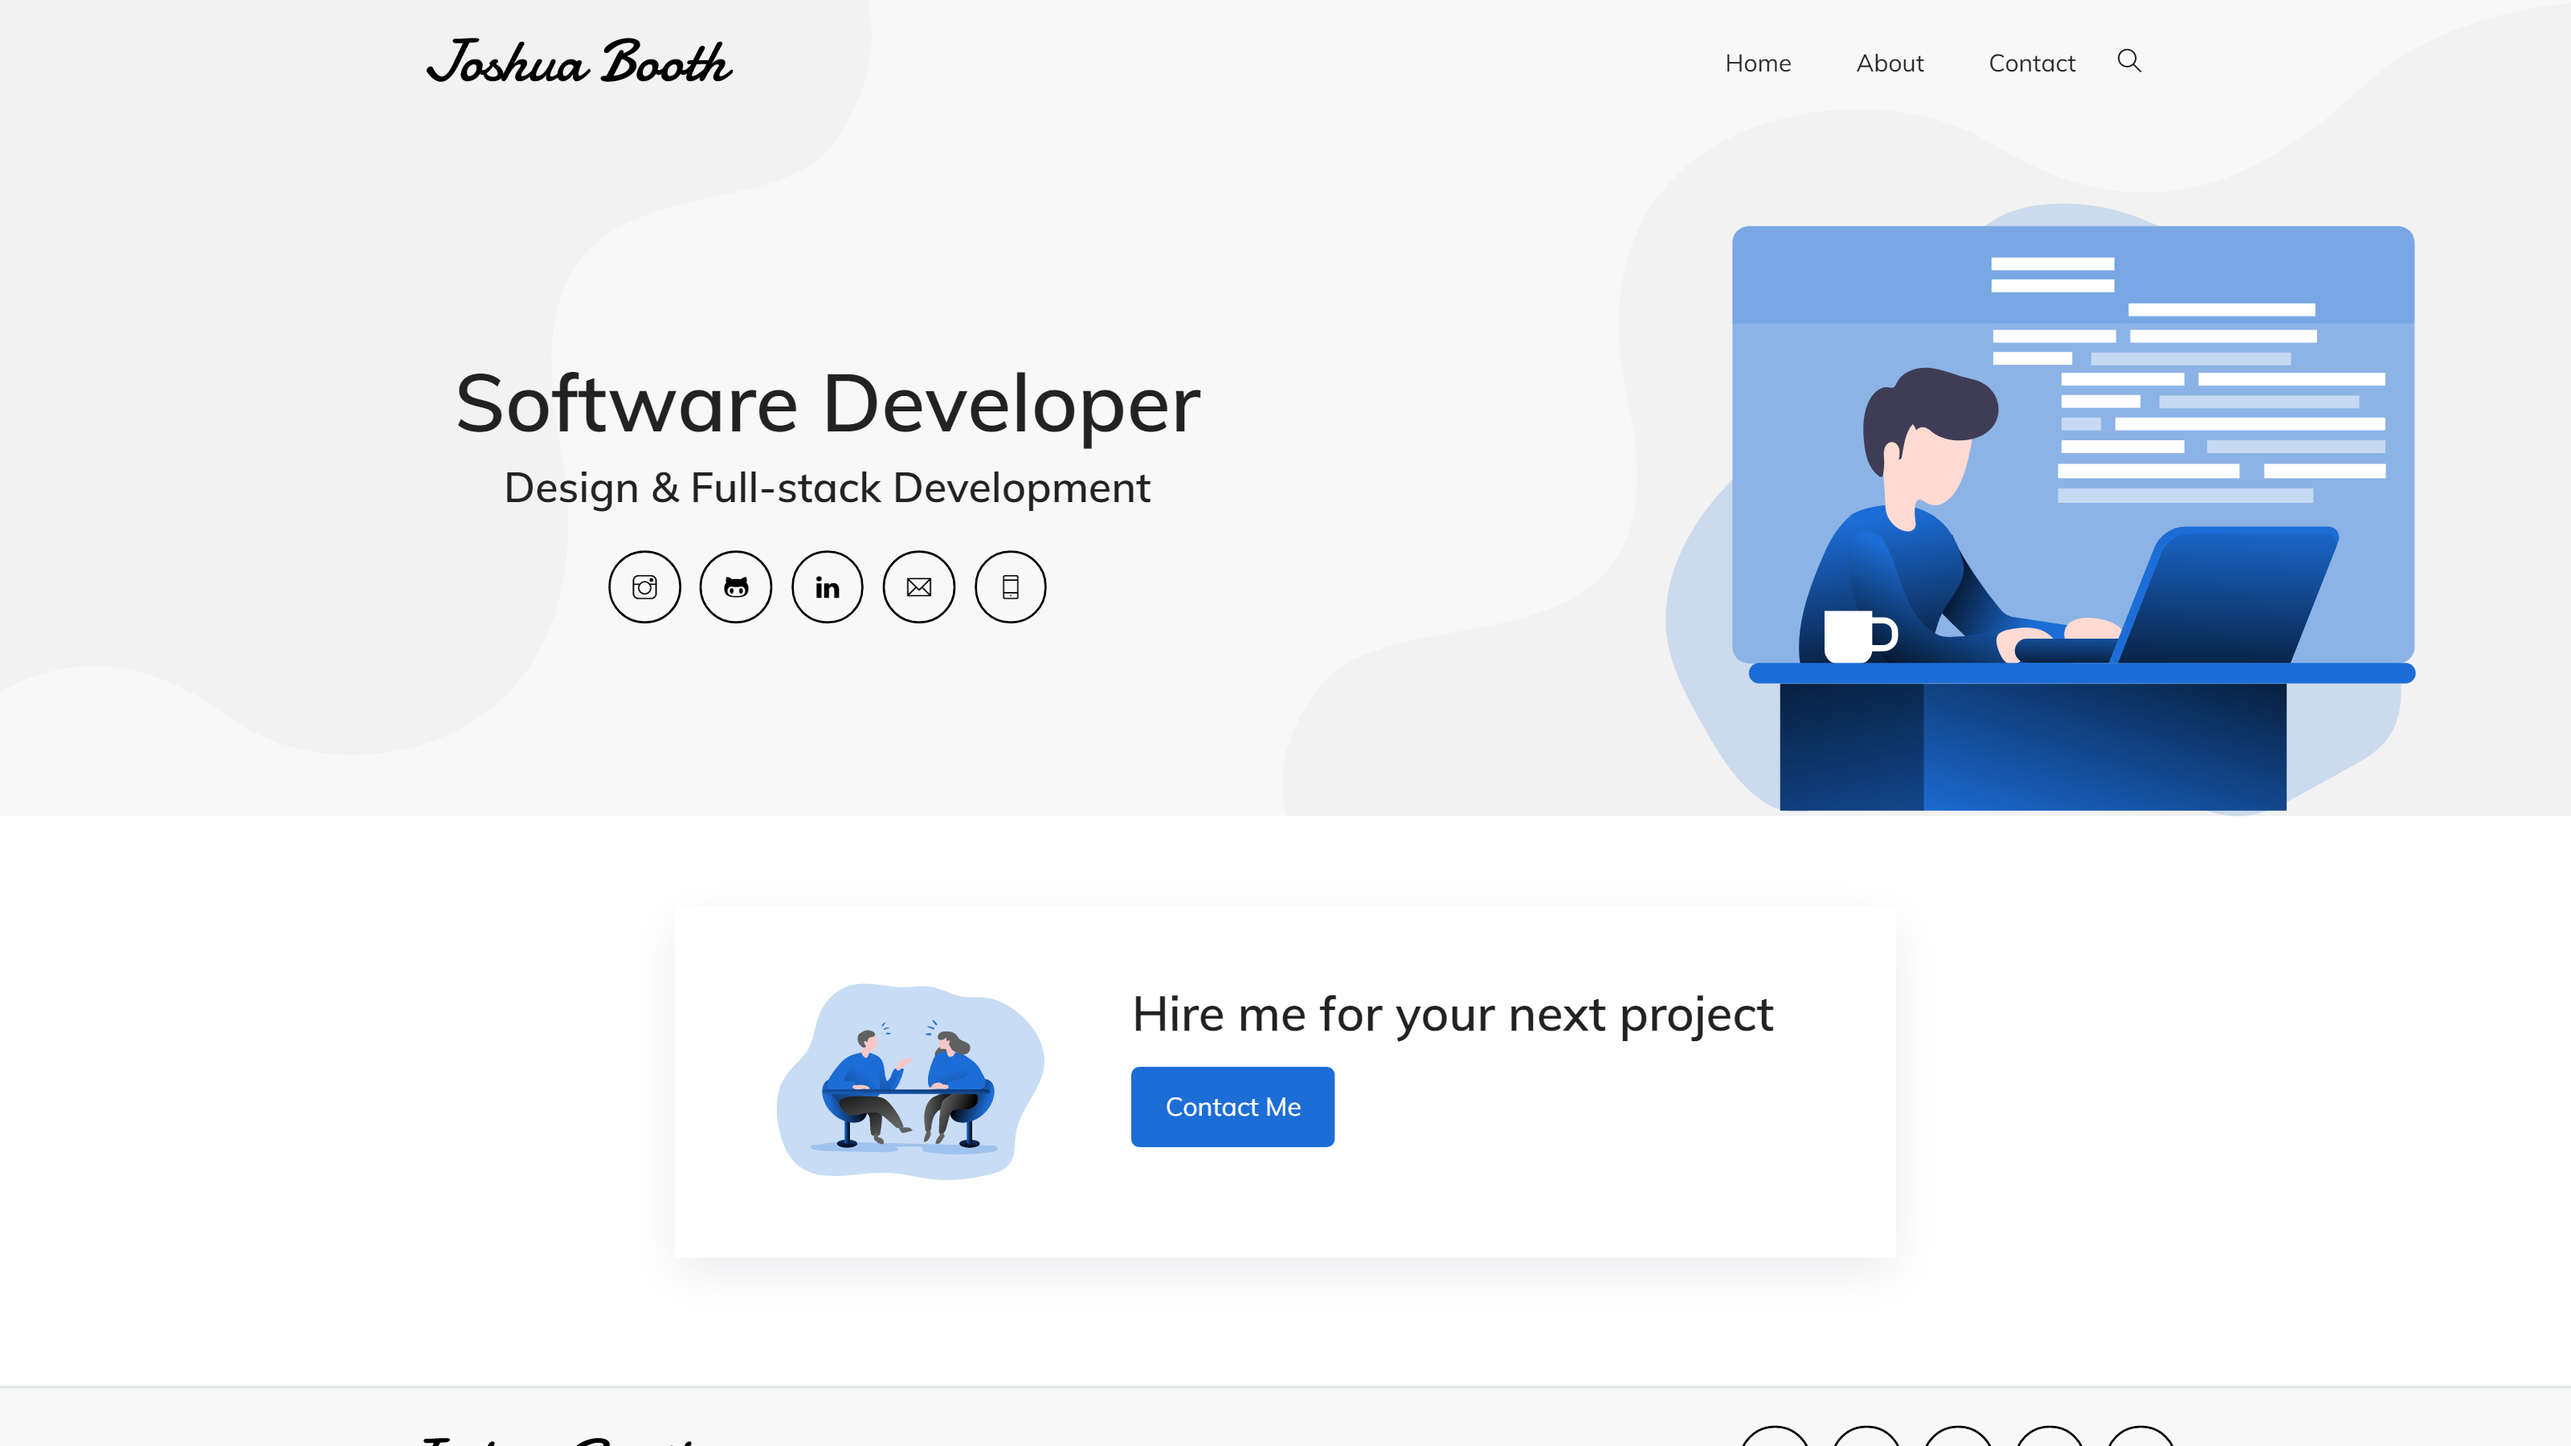
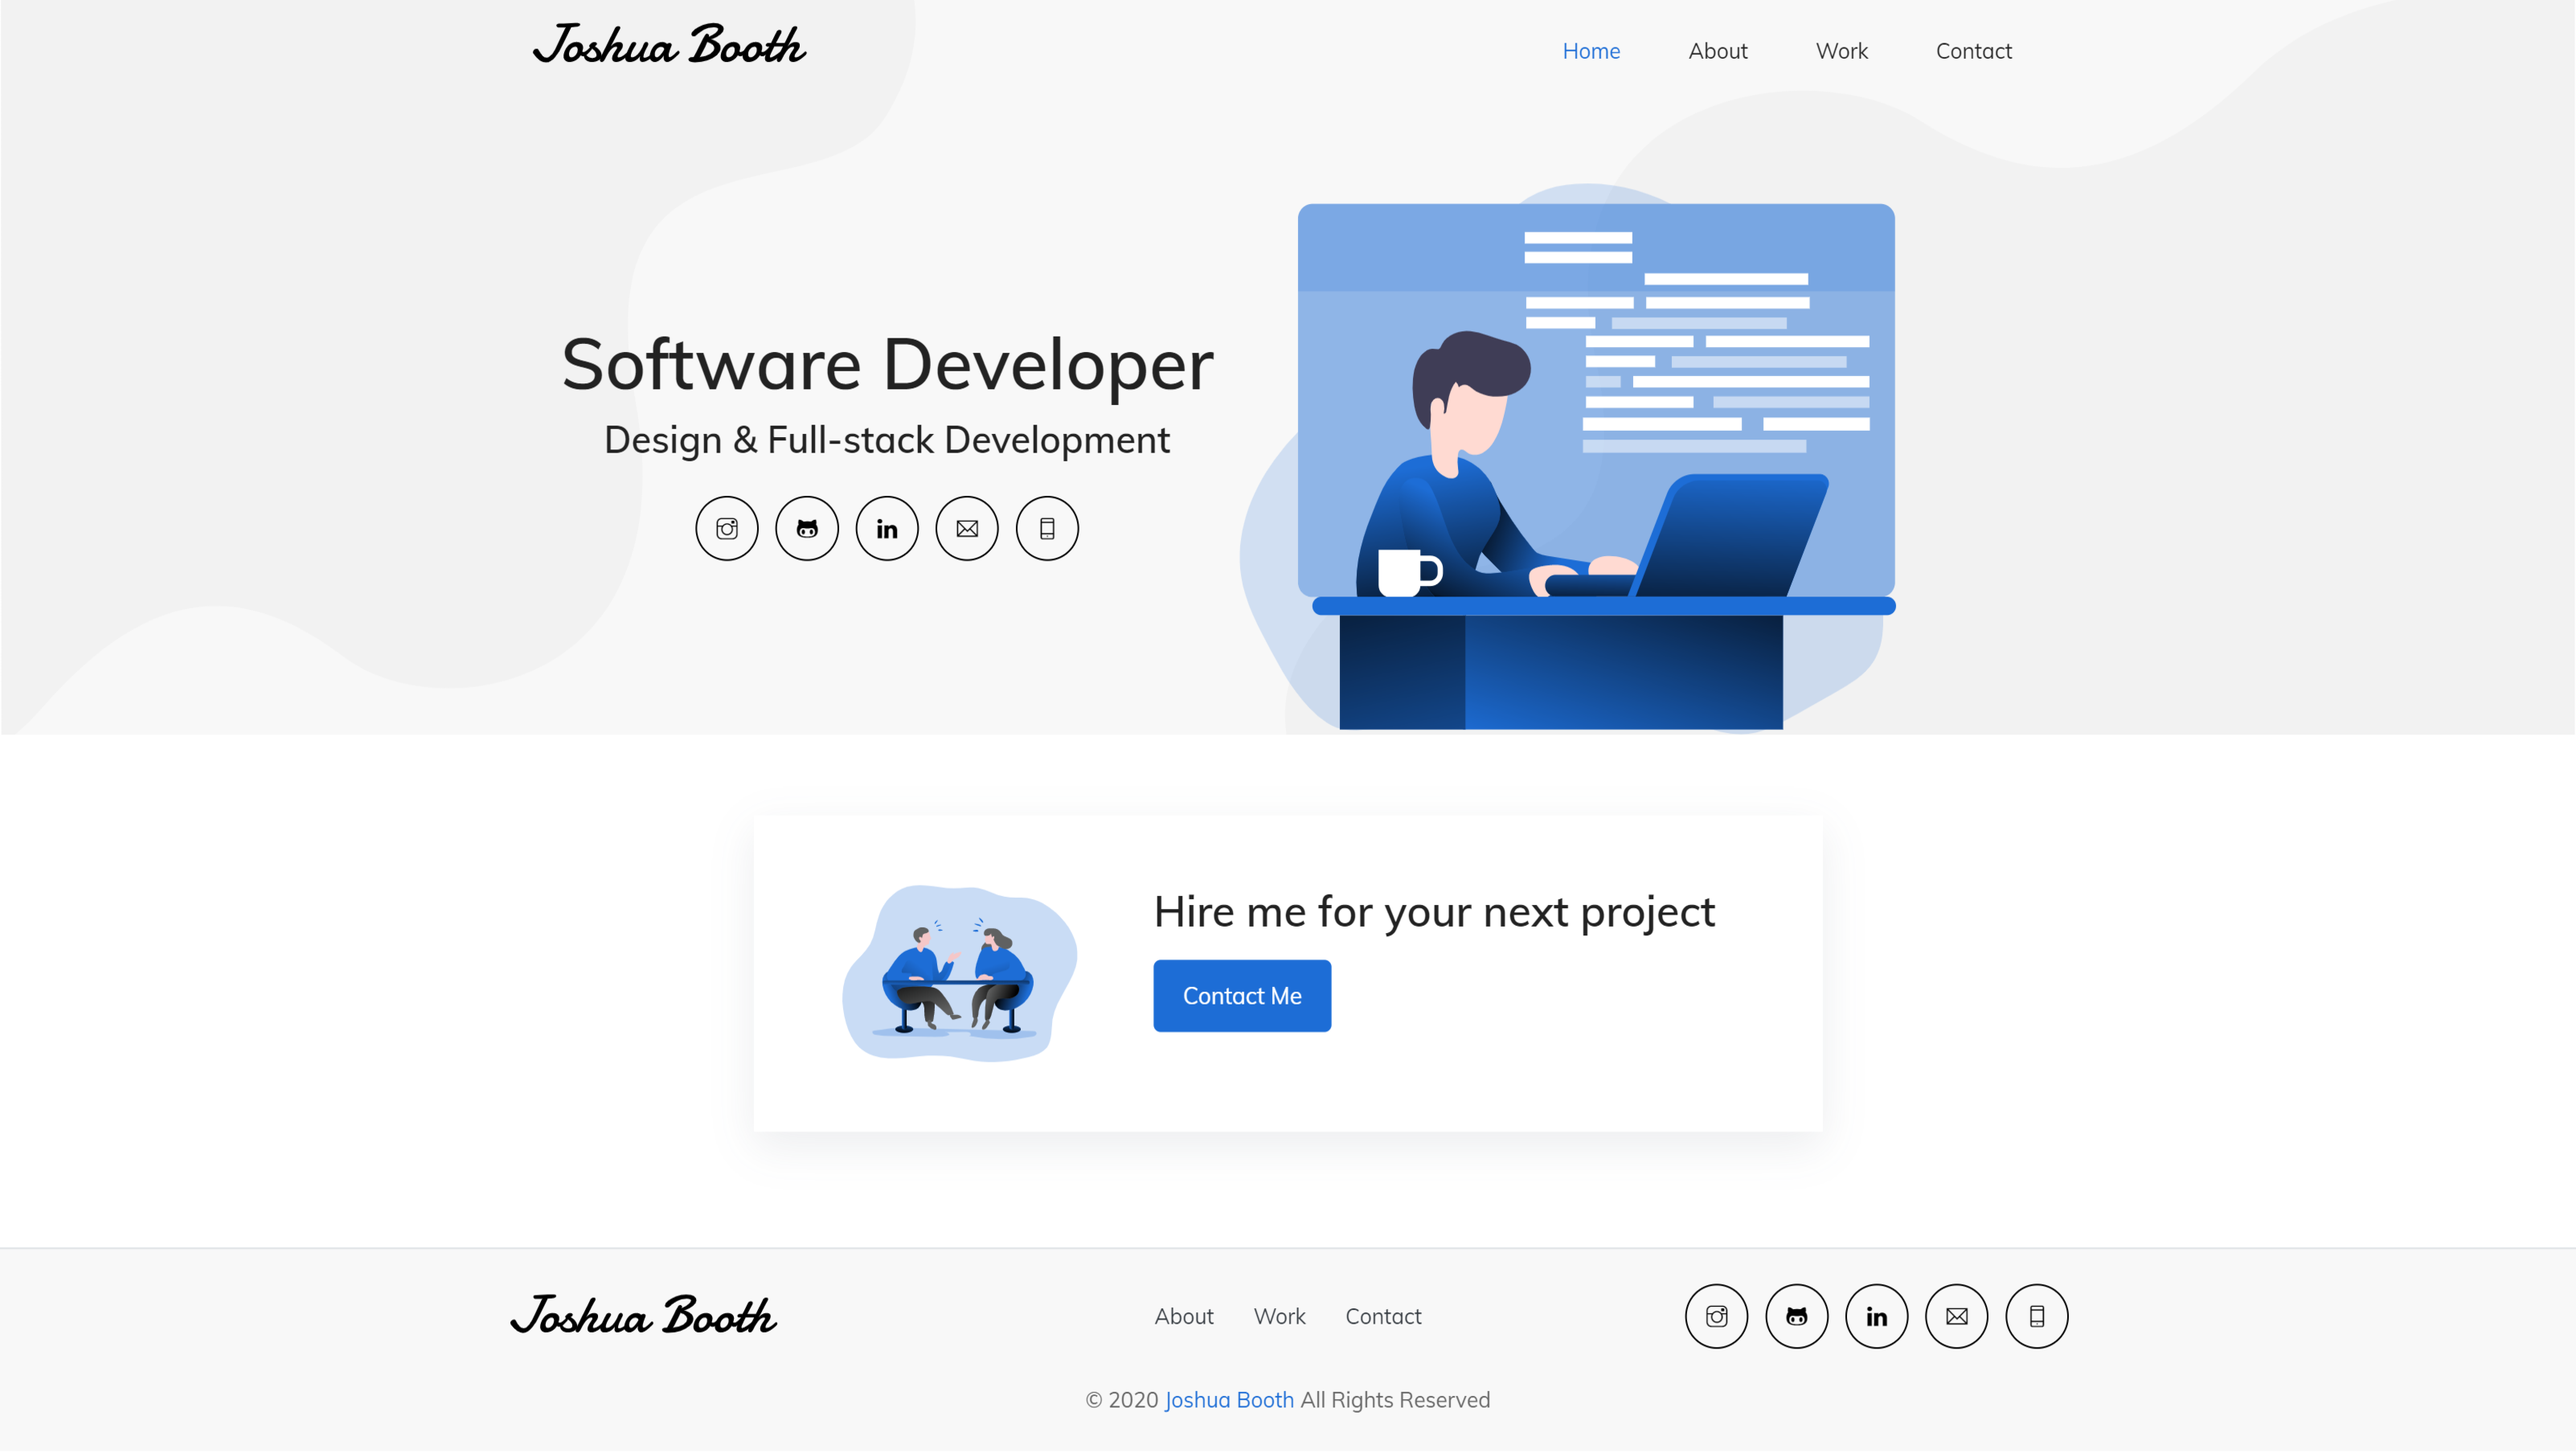
Implemented Case Studies

diff --git a/layouts/work/single.html b/layouts/work/single.html
@@ -1,0 +1,114 @@
+{{ define "main" }}
+
+<section class="section">
+  <div class="container">
+    <div class="row">
+      <div class="col-lg-12 mx-auto px-0 px-sm-2 py-0 block mb-0">
+          <div class="row px-sm-4">
+            <!-- Project Headings -->
+            <div class="col-12 col-sm-7 col-md-8 col-lg-9 col-xl-10">
+                <h1 class="h2 text-black px-5 px-sm-0">{{ .Title | markdownify }}</h1>
+                <h2 class="h5 text-secondary px-5 px-sm-0">
+                {{ if .Params.role }}
+                    {{ .Params.role | markdownify }}
+                {{ else }}
+                    {{ .Params.subtitle | markdownify }}
+                {{ end }}
+                </h2>
+            </div>
+
+            <!-- Project Buttons -->
+            <div class="col-4 col-sm-5 col-md-4 col-lg-3 col-xl-2 mt-2 text-right d-none d-sm-block flex-column">
+                <!-- Visit Site Button -->
+                {{ if and .Params.link (ne .Params.link "") }}
+                <a href="{{ .Params.link | safeURL }}" role="button"
+                   class="btn btn-sm col-10 col-md-11 p-md-1 btn-primary text-white mb-1"
+                   target="_blank" rel="noopener noreferrer">
+                    <i class="ti-new-window pr-1"></i>
+                    <span>Visit Site</span>
+                </a>
+                {{ end }}
+                <!-- Private Code Button --> 
+                {{if eq .Params.repo "private" }}
+                <a class="btn btn-sm col-10 col-md-11 p-md-1 btn-light mb-1 disabled" href="#"
+                   style="opacity: 1" aria-disabled="true" disabled>
+                    <i class="ti-lock px-1"></i>
+                    <span class="pr-2">Private</span>
+                </a>
+                <!-- View Code Button -->
+                {{ else if and .Params.repo (ne .Params.repo "") }}
+                <a href="{{ .Params.repo | safeURL }}" role="button"
+                   class="btn btn-sm col-10 col-md-11 p-md-1 btn-light text-decoration-none mb-1" 
+                   target="_blank" rel="noopener noreferrer">
+                    <i class="ti-files pr-1"></i>
+                    <span>View Code</span>
+                </a>
+                {{ end }}
+            </div>
+        </div>
+
+        <div class="row text-center col-12 mx-auto px-0 px-sm-4">
+            <!-- Project Image -->
+            {{ if .Params.Image }}
+            <img src="{{ .Params.Image | relURL }}" alt="{{ .Title | markdownify }}"
+                class="img-fluid w-100 mb-4 mt-2 shadow">
+            {{ end }}
+        </div>
+        
+
+        <!-- Project Information -->
+        <div class="content mt-4 mb-5 px-5 px-sm-4">
+            <!-- Description -->
+            <span class="font-italic">
+                {{ .Params.description }}
+            </span>
+
+            <!-- Mobile Buttons -->
+            <div class="row text-center d-block d-sm-none mt-4 pt-2 mx-n4">
+                <div class="col-5 d-inline-block px-0 mr-2">
+                    <!-- Visit Site Button -->
+                    {{ if and .Params.link (ne .Params.link "") }}
+                    <a href="{{ .Params.link | safeURL }}" role="button"
+                       class="btn btn-sm btn-primary col-12 text-white mb-1"
+                       target="_blank" rel="noopener noreferrer">
+                        <i class="ti-new-window pr-1"></i>
+                        <span>Visit Site</span>
+                    </a>
+                    {{ end }} 
+                </div>
+                
+                <div class="col-5 d-inline-block px-0">
+                    <!-- Private Code Button --> 
+                    {{if eq .Params.repo "private" }}
+                    <a class="btn btn-sm btn-light px-1 col-12 mb-1 disabled" href="#"
+                       style="opacity: 1" aria-disabled="true" disabled>
+                        <i class="ti-lock px-1"></i>
+                        <span class="pr-2">Private</span>
+                    </a>
+                    <!-- View Code Button -->
+                    {{ else if and .Params.repo (ne .Params.repo "") }}
+                    <a href="{{ .Params.repo | safeURL }}" role="button"
+                      class="btn btn-sm btn-light px-1 col-12 text-dark text-decoration-none mb-1" 
+                      target="_blank" rel="noopener noreferrer">
+                        <i class="ti-files pr-1"></i>
+                        <span>View Code</span>
+                    </a>
+                    {{ end }}
+                </div>
+            </div>
+
+            <!-- About the Project -->
+            <h3 class="pt-1 pt-sm-5">About this project</h3>
+            <hr>
+
+            <!-- Main Content -->
+            <div class="drop-cap">
+                {{ .Content }}
+            </div>
+        </div>
+      </div>
+    </div>
+  </div>
+</section>
+
+{{ end }}

diff --git a/layouts/work/list.html b/layouts/work/list.html
@@ -23,39 +23,57 @@
             id="{{.title | urlize}}" role="tabpanel">
 
             <div class="row">
+            <!-- Loop over websites and software projects -->
             {{ if ne $index 2 }}
               {{ range .project}}
               <div class="col-md-6 mb-4 px-1">
                 <div class="card border-0 shadow">
-                  <img src="{{ .image | relURL }}" alt="{{ .name | markdownify }}"
-                    class="card-img-top {{ if eq $index 1 }}w-50 pt-4 mx-auto{{ else }}shadow-sm{{ end }}">
+                  {{ if or (isset . "link") (isset . "caseStudy") }}
+                  <a alt="{{ .title }}" rel="noopener noreferrer"
+                      {{ if isset . "caseStudy" }}
+                          href='{{ .caseStudy | safeURL }}'
+                      {{ else }}
+                          href='{{ .link | safeURL }}'
+                      {{ end }}
+                    target='{{ if not (isset . "caseStudy") }}_blank{{ end }}'>
+                  {{ end }}
+                    <img src="{{ .image | relURL }}" alt="{{ .name | markdownify }}"
+                      class="card-img-top {{ if eq $index 1 }}w-50 pt-4 mx-auto{{ else }}shadow-sm{{ end }}">
+                  {{ if or (isset . "link") (isset . "caseStudy") }}</a>{{ end }}
+                  
                   <div class="card-body">
-
                     <h4 class="h5 mb-4">
-                      {{ if isset . "link" }}
-                      <a class="text-dark"href="{{ .link | safeURL }}"
-                        target="_blank" rel="noopener noreferrer">
-                        {{ .name | markdownify }}
-                        <div class="arrow d-inline-block"></div>
+                      {{ if or (isset . "link") (isset . "caseStudy") }}
+                      <a class="text-dark" alt="{{ .title }}" rel="noopener noreferrer"
+                          href='{{ if isset . "caseStudy" }}
+                                  {{ .caseStudy | safeURL }}
+                              {{ else }}
+                                  {{ .link | safeURL }}
+                              {{ end }}'
+                          target='{{ if eq .caseStudy "" }}_blank{{ end }}'>
+                      {{ .name | markdownify }}
+                      <div class="arrow d-inline-block"></div>
                       </a>
                       {{ else }}
-                        {{ .name | markdownify }}
+                          {{ .name | markdownify }}
                       {{ end }}
                     </h4>
 
                     <hr>
 
+                    <!-- Visit Site Button -->
                     {{ if and .link (ne .link "") }}
                     <a href="{{ .link | safeURL }}" role="button" class="btn btn-sm btn-primary mb-1"
                       target="_blank" rel="noopener noreferrer">
                       <i class="ti-new-window pr-1"></i> Visit Site
                     </a>
                     {{ end }}
-                    
+                    <!-- Private Code Button -->                   
                     {{if eq .repo "private" }}
-                    <span class="btn btn-sm btn-light mb-1 disabled" style="opacity: 1" aria-disabled="true">
+                    <a class="btn btn-sm btn-light mb-1 disabled" href="#" style="opacity: 1" aria-disabled="true">
                       <i class="ti-lock pr-1"></i> Private
-                    </span>
+                    </a>
+                    <!-- View Code Button -->
                     {{ else if and .repo (ne .repo "") }}
                     <a href="{{ .repo | safeURL }}" role="button" class="btn btn-sm btn-light mb-1" 
                       target="_blank" rel="noopener noreferrer">
@@ -67,6 +85,7 @@
               </div>
               {{ end }} 
             {{ else }}
+              <!-- Loop over instagram project photos -->
               {{ range .project }}
               <div class="col-md-4 col-12 text-md-center mx-auto mb-4">
                 <a href="https://instagram.com/p/{{ .code }}" target="_blank" rel="noopener noreferrer">

diff --git a/layouts/shortcodes/skills.html b/layouts/shortcodes/skills.html
@@ -7,7 +7,7 @@
 			<!-- design -->
 			<div class="col-sm-4">
 				<h5 class="pb-4">Design</h5 class="pb-2">
-				<ul>
+				<ul class="skills">
 				{{ range .Site.Params.skills.design }}
 					<li class="pl-0">
 						<img src="{{.icon}}" class="w-25 mb-2 pb-1" aria-label="{{ .name }}"
@@ -21,7 +21,7 @@
 			<!-- front end -->
 			<div class="col-sm-4">
 				<h5 class="pb-4">Front End</h5>
-				<ul>
+				<ul class="skills">
 				{{ range .Site.Params.skills.front }}
 					<li class="pl-0">
 						<img src="{{.icon}}" class="w-25 mb-2" aria-label="{{ .name }}"
@@ -35,7 +35,7 @@
 			<!-- back end -->
 			<div class="col-sm-4">
 				<h5 class="pb-4">Back End</h5 class="pb-2">
-				<ul>
+				<ul class="skills">
 				{{ range .Site.Params.skills.back }}
 					<li class="pl-0">
 						<img src="{{.icon}}" class="w-25 mb-2" aria-label="{{ .name }}"

diff --git a/assets/scss/templates/_main.scss b/assets/scss/templates/_main.scss
@@ -106,10 +106,21 @@
 
     li {
       position: relative;
-      padding-left: 20px;
+      margin-left: 20px;
+      padding-left: 10px;
       margin-bottom: 15px;
-      list-style-type: none;
+      list-style-type: initial;
     }
+  }
+
+  .skills li {
+    margin-left: 0;
+    padding-left: 20px;
+    list-style-type: none;
+  }
+
+  figure img {
+    margin-bottom: 0;
   }
 
   table {

diff --git a/assets/scss/_typography.scss b/assets/scss/_typography.scss
@@ -17,6 +17,15 @@ p, .paragraph {
   font-family: $primary-font;
 }
 
+.drop-cap p:first-child:first-letter {
+  color: $black;
+  float: left;
+  line-height: 40px;
+  padding-right: 8px;
+  padding-left: 3px;
+  font-size: 300%;
+  margin-top: 10px;
+}
 
 a {
   color: $primary-color;

diff --git a/content/work/websites/joshua-booth/index.md b/content/work/websites/joshua-booth/index.md
@@ -1,0 +1,44 @@
+---
+title: "Joshua Booth"
+subtitle: "Personal Portfolio"
+link: https://joshuabooth.nz/
+repo: https://github.com/Joshua-Booth/website
+description: "This website is built with the static site generator Hugo, it's styled with Bootstrap and SASS and automatically deploys from GitHub."
+image: "/images/work/joshuabooth.nz.png"
+role: "Designer and Developer"
+---
+
+I've been developing my personal website since 2016. It's a way of displaying my work, telling people a little about myself and providing my contact details for anyone to get in touch.
+
+With this new redesign my goals were to make it simple enough for anyone to use, a clean look, easy for myself to update and as a way to provide more information about the work I do.
+
+Now, all my main site sections and projects are organised with their own sections or pages. It's fully responsive and resizes to any browser size correctly. The modern user interface is easy to use and navigate as the content is well organised.
+
+{{< figure src="work.png" class="pt-2 pl-0 mb-3 col-12 text-center shadow" width="100%" >}}
+*The work portfolio page of my website displaying projects I have worked on.*
+
+<br>
+
+### Features
+
+---
+
+* Responsive design
+* Easy to use interface
+* Custom preloader
+* Work portfolio with case studies
+* Contact page and form
+
+<br>
+
+### Technologies
+
+---
+
+* HTML / CSS / JavaScript
+* Bootstrap
+* SASS
+* jQuery
+* Hugo
+* Netlify
+* Git & GitHub
